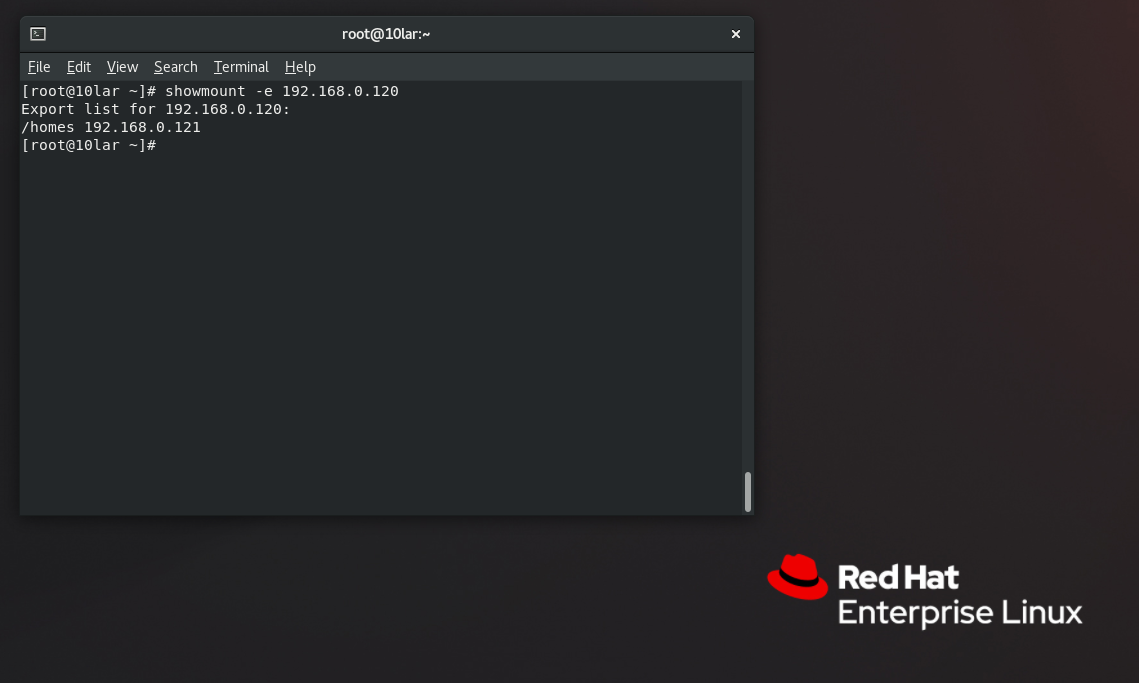
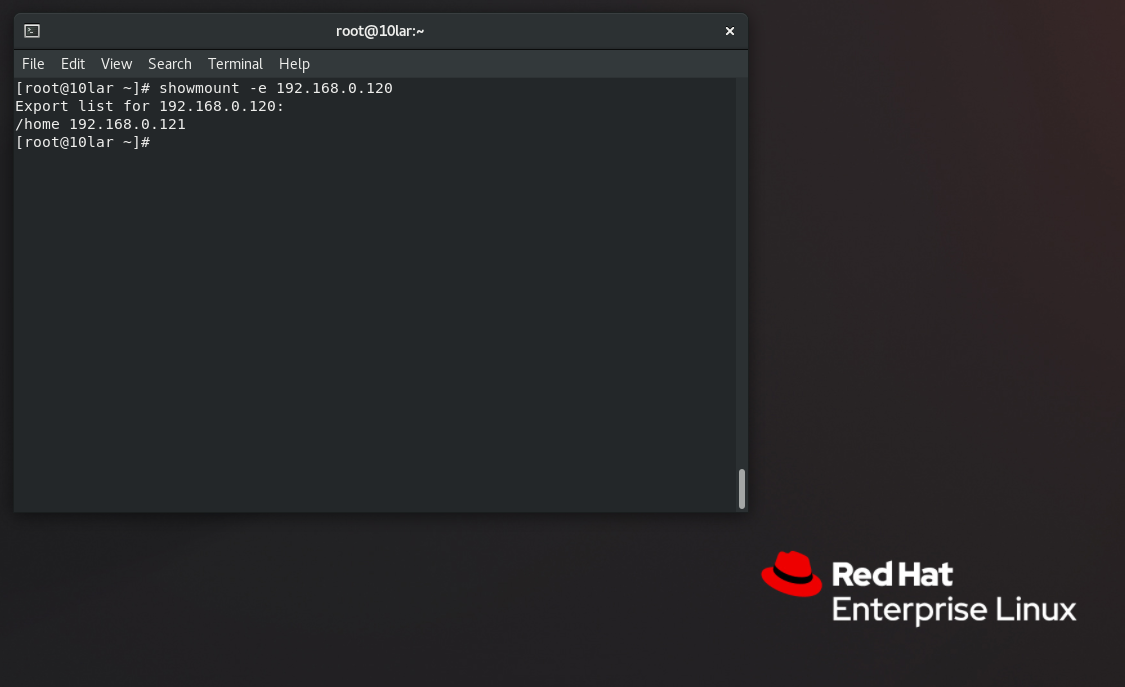
add

diff --git a/_posts/2020-12-05-Mamed_NFS_ve_AutoFS.md b/_posts/2020-12-05-Mamed_NFS_ve_AutoFS.md
@@ -45,17 +45,8 @@ Axşam saat 11 dir, *Admin* qalıb işdə, IT Menecer ona tapşırıb ki, sabahd
 
 ## Serverdə
 
-### 1 - Ümümi qovluğun yaradılması...
 
-Admin ilk oncə serverdə ümumi directory yaradır:
-
-``` bash
-sudo mkdir /homes
-```
-
-adı "/homes" qoyur çunki "home" artıq var. Onun belə fərqi yoxdur.
-
-### 2 - NFS Utils install edilməsi və aktvləşdirilməsi...
+### 1 - NFS Utils install edilməsi və aktvləşdirilməsi...
 
 Sonra **NFS**-i install edir...
 
@@ -67,13 +58,13 @@ sudo yum install -y nfs-utils
 	`sudo systemctl enable --now nfs-server.service`
 ![](/assets/img/screenshots/Screen_0010.png)
 
-### 3 - Qovluğu export (share; bölüşməsi) edilməsi...
+### 3 - /home Qovluğu export (share; bölüşməsi) edilməsi...
 
 a)
 ``` bash
 sudo vim /etc/exports
 ```
-	/homes		192.168.0.121(rw,no_root_squash)
+	/home		192.168.0.121(rw,no_root_squash)
 
 line-i əlavə edir.
 ![](/assets/img/screenshots/Screen_0007.png)
@@ -83,13 +74,13 @@ line-i əlavə edir.
 b)
 ``` bash
 #bir yazı ilə exports file-ına əlavə etdi
-sudo echo "/homes	192.168.0.121(rw,no_root_squash)" >> /etc/exports
+sudo echo "/home	192.168.0.121(rw,no_root_squash)" >> /etc/exports
 ```
-Admin "/homes" qovluğü 192.168.0.121 ipv4-li client (kompyuter) ilə bölüşdü, client (kompyuter) oxuyub/yaza (read/write) bilər "/homes"-da, və clientin "root" istifadəçisi serverin "root" istifadəçisi kimi hər şey edə bilər bu qovluğda.
+Admin "/home" qovluğü 192.168.0.121 ipv4-li client (kompyuter) ilə bölüşdü, client (kompyuter) oxuyub/yaza (read/write) bilər "/home"-da, və clientin "root" istifadəçisi serverin "root" istifadəçisi kimi hər şey edə bilər bu qovluğda.
 
 Bu line-i elavə edəndən sonra,
 
-1. Clientlətin (xaricdə olanların) bu NFS qovluğuna (/homes) qoşulmaq üçün, gərək Admin Firewall-a 3 dənə sevice əlavə etsin:
+1. Clientlətin (xaricdə olanların) bu NFS qovluğuna (/home) qoşulmaq üçün, gərək Admin Firewall-a 3 dənə sevice əlavə etsin:
 
 ``` bash
 sudo firewall-cmd --add-service nfs --permanent
@@ -175,12 +166,24 @@ Bu addımda vacibdir, çünki bu addımda Admin elə bir line əlavə etməlidir
 sudo vim /etc/auto.master.d/auto.clients
 ```
 
-	*		-rw		192.168.0.120:/homes/&
+	*		-rw		192.168.0.120:/home/&
 	
 <br>asterisk(\*) - bütün userlər.
 <br>-rw - read/write.
 <br>192.168.0.120 - Server IP.
-<br>:/homes - Serverdəki export (share) olunmuş qovluğ.
+<br>:/home - Serverdəki export (share) olunmuş "/home"qovluğu.
 <br>& - Userin adına uyğun olaraq, sub-qovluğ yaranacaq.
 
 ![](/assets/img/screenshots/Screen_0012.png)
+
+Bu line əlavə edəndən sonra, AutoFS restart etmək lazımdır.
+
+`sudo systemctl restart autofs.service`
+
+Restart etdikdən sonra, görmək olar ki "/clients" qovluğu yarandı (`mkdir` siz, avtomatik olaraq, /etc/auto.master -də "/clients ......" yazdığımız üçün)
+
+`ls -l /`
+
+![](/assets/img/screenshots/Screen_0013.png)
+
+Bu qədər. İndi qaldı Serverdə və Clientdə
